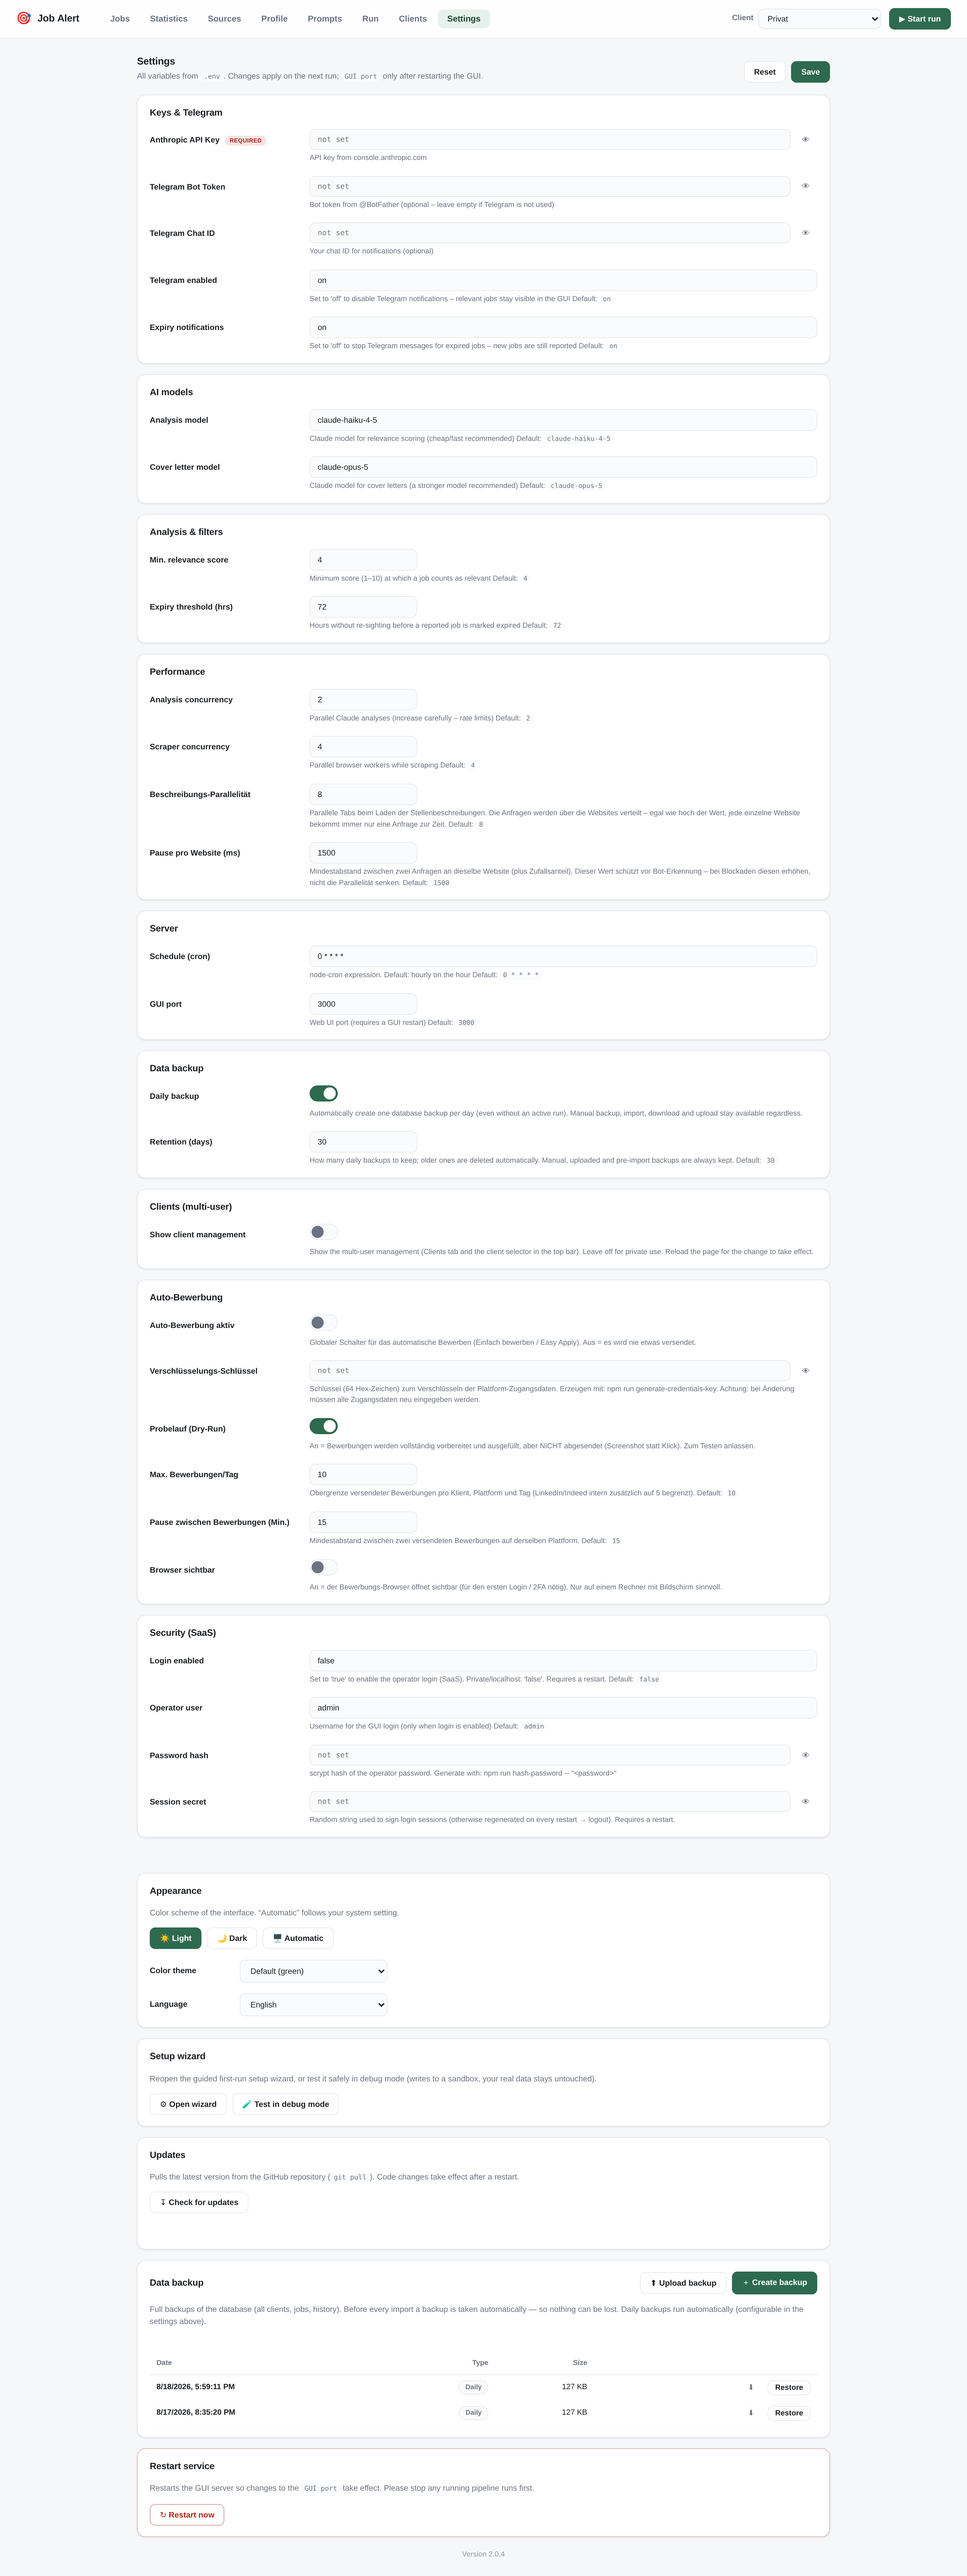
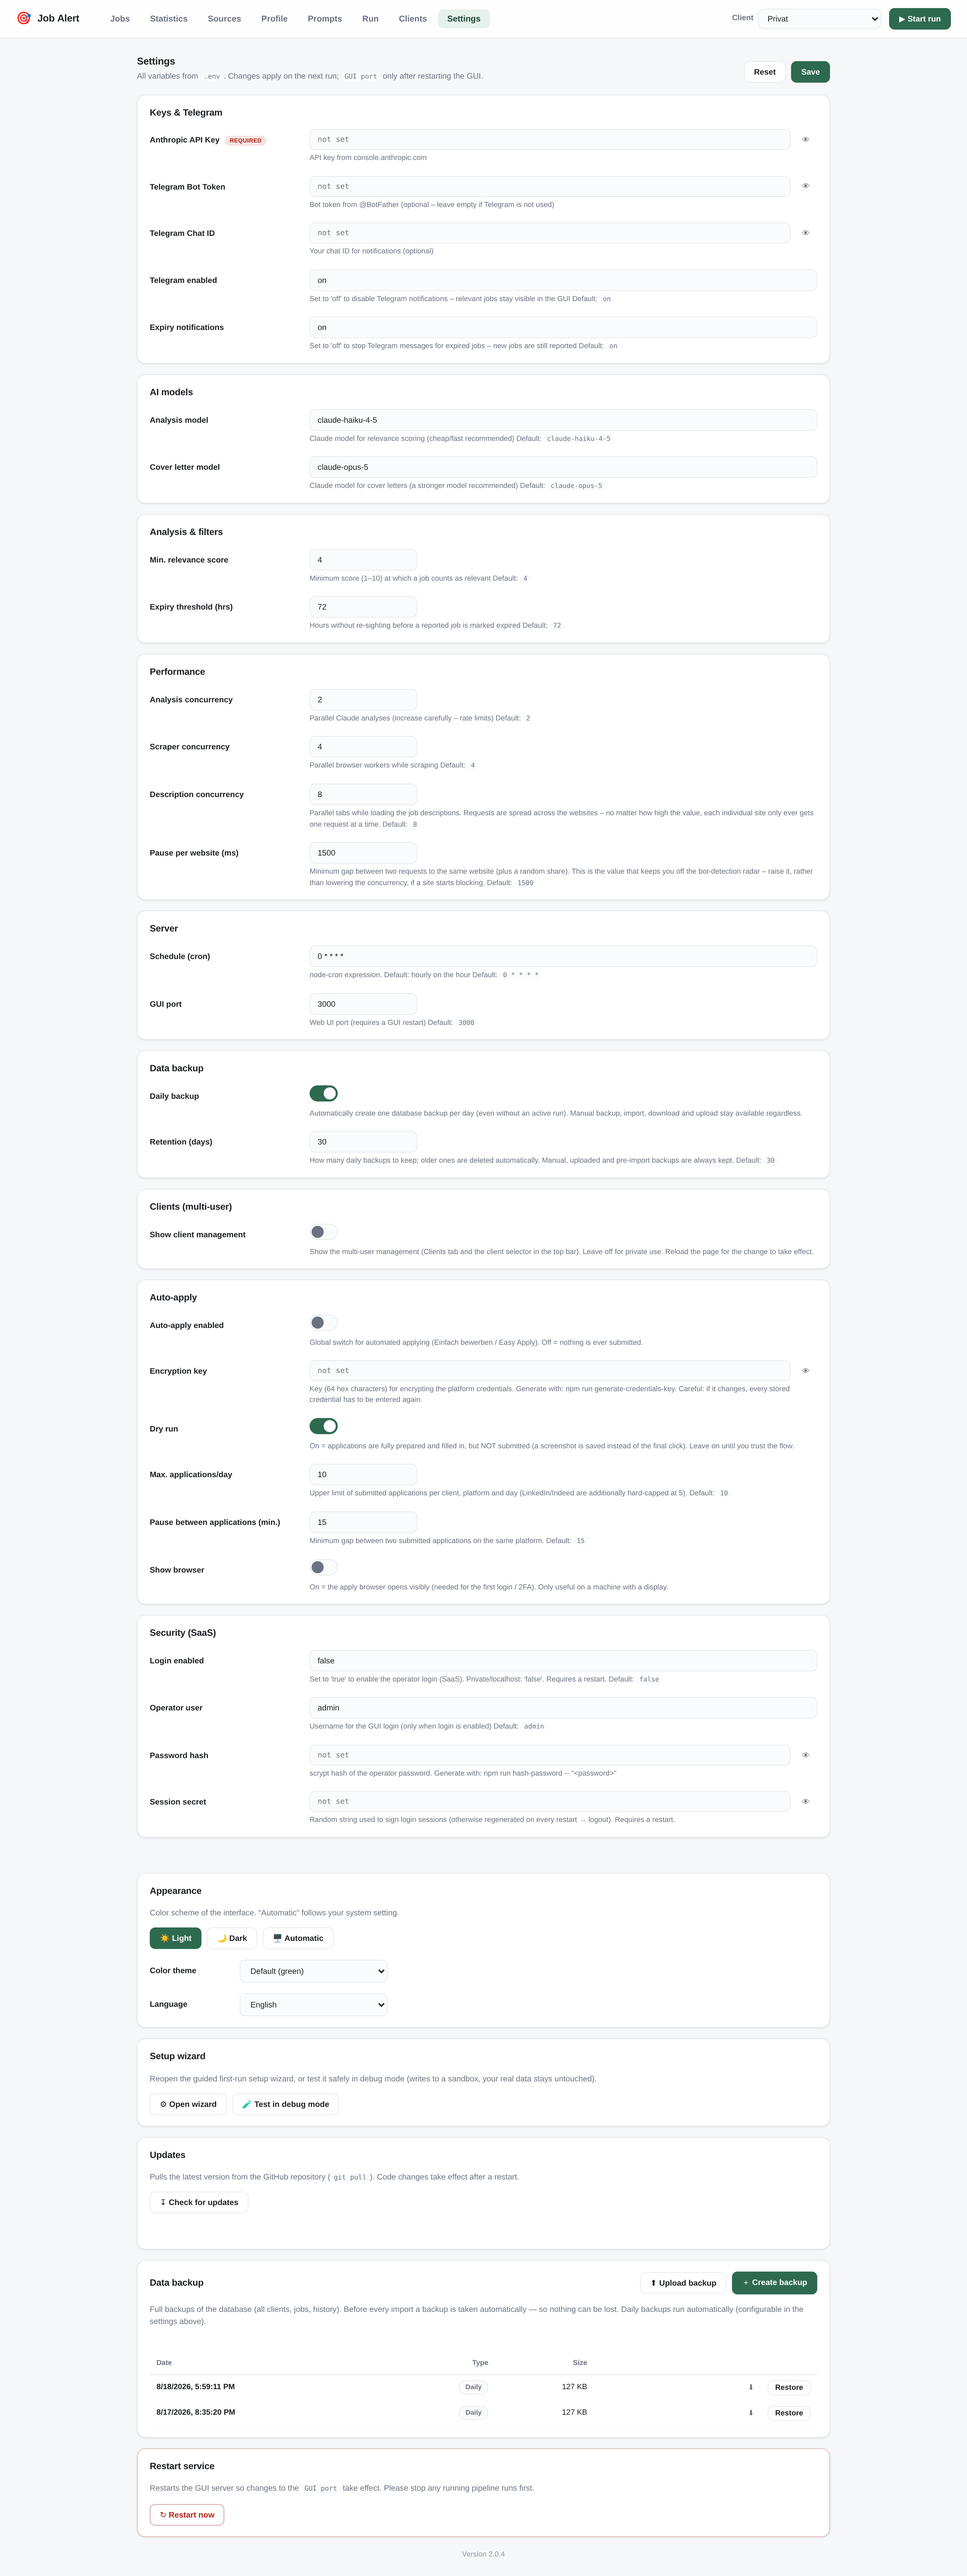
Translate the remaining settings fields into English
The Einstellungen form is server-driven: SETTINGS_SCHEMA carries German
label/help as the source of truth and public/i18n.js layers English on top,
keyed by field key. A missing override falls back to the German text without
any marker, so the auto-apply commit and the per-host-throttle commit each
added schema fields that then rendered in German on an otherwise English
page — one group heading and eight fields, labels and help alike.

Adds the missing overrides and recaptures the settings screenshot, and notes
the silent-fallback trap in CLAUDE.md so the next field does not repeat it.

Changed region(s): [[0.3438, 0.3118, 0.4688, 0.3429]]

diff --git a/public/i18n.js b/public/i18n.js
@@ -499,6 +499,7 @@ const SETTINGS_GROUPS_EN = {
   'Server': 'Server',
   'Datensicherung': 'Data backup',
   'Klienten (Mehrbenutzer)': 'Clients (multi-user)',
+  'Auto-Bewerbung': 'Auto-apply',
   'Sicherheit (SaaS)': 'Security (SaaS)',
 };
 const SETTINGS_LABELS_EN = {
@@ -513,11 +514,19 @@ const SETTINGS_LABELS_EN = {
   EXPIRY_THRESHOLD_HOURS: 'Expiry threshold (hrs)',
   ANALYSIS_CONCURRENCY: 'Analysis concurrency',
   SCRAPE_CONCURRENCY: 'Scraper concurrency',
+  DESC_CONCURRENCY: 'Description concurrency',
+  DESC_HOST_GAP_MS: 'Pause per website (ms)',
   CRON_SCHEDULE: 'Schedule (cron)',
   GUI_PORT: 'GUI port',
   BACKUP_ENABLED: 'Daily backup',
   BACKUP_RETENTION_DAYS: 'Retention (days)',
   CLIENTS_ENABLED: 'Show client management',
+  AUTO_APPLY_ENABLED: 'Auto-apply enabled',
+  CREDENTIALS_KEY: 'Encryption key',
+  APPLY_DRY_RUN: 'Dry run',
+  APPLY_DAILY_CAP: 'Max. applications/day',
+  APPLY_COOLDOWN_MINUTES: 'Pause between applications (min.)',
+  APPLY_HEADFUL: 'Show browser',
   AUTH_ENABLED: 'Login enabled',
   OPERATOR_USER: 'Operator user',
   OPERATOR_PASSWORD_HASH: 'Password hash',
@@ -535,11 +544,19 @@ const SETTINGS_HELP_EN = {
   EXPIRY_THRESHOLD_HOURS: 'Hours without re-sighting before a reported job is marked expired',
   ANALYSIS_CONCURRENCY: 'Parallel Claude analyses (increase carefully – rate limits)',
   SCRAPE_CONCURRENCY: 'Parallel browser workers while scraping',
+  DESC_CONCURRENCY: 'Parallel tabs while loading the job descriptions. Requests are spread across the websites – no matter how high the value, each individual site only ever gets one request at a time.',
+  DESC_HOST_GAP_MS: 'Minimum gap between two requests to the same website (plus a random share). This is the value that keeps you off the bot-detection radar – raise it, rather than lowering the concurrency, if a site starts blocking.',
   CRON_SCHEDULE: 'node-cron expression. Default: hourly on the hour',
   GUI_PORT: 'Web UI port (requires a GUI restart)',
   BACKUP_ENABLED: 'Automatically create one database backup per day (even without an active run). Manual backup, import, download and upload stay available regardless.',
   BACKUP_RETENTION_DAYS: 'How many daily backups to keep; older ones are deleted automatically. Manual, uploaded and pre-import backups are always kept.',
   CLIENTS_ENABLED: 'Show the multi-user management (Clients tab and the client selector in the top bar). Leave off for private use. Reload the page for the change to take effect.',
+  AUTO_APPLY_ENABLED: 'Global switch for automated applying (Einfach bewerben / Easy Apply). Off = nothing is ever submitted.',
+  CREDENTIALS_KEY: 'Key (64 hex characters) for encrypting the platform credentials. Generate with: npm run generate-credentials-key. Careful: if it changes, every stored credential has to be entered again.',
+  APPLY_DRY_RUN: 'On = applications are fully prepared and filled in, but NOT submitted (a screenshot is saved instead of the final click). Leave on until you trust the flow.',
+  APPLY_DAILY_CAP: 'Upper limit of submitted applications per client, platform and day (LinkedIn/Indeed are additionally hard-capped at 5).',
+  APPLY_COOLDOWN_MINUTES: 'Minimum gap between two submitted applications on the same platform.',
+  APPLY_HEADFUL: 'On = the apply browser opens visibly (needed for the first login / 2FA). Only useful on a machine with a display.',
   AUTH_ENABLED: "Set to 'true' to enable the operator login (SaaS). Private/localhost: 'false'. Requires a restart.",
   OPERATOR_USER: 'Username for the GUI login (only when login is enabled)',
   OPERATOR_PASSWORD_HASH: 'scrypt hash of the operator password. Generate with: npm run hash-password -- "<password>"',

diff --git a/CLAUDE.md b/CLAUDE.md
@@ -123,7 +123,22 @@ web GUI. Multi-tenant: every job, run and setting is scoped by `client_id`.
 - **A new env var lives in three places**: `.env.example`, `SETTINGS_SCHEMA` in
   `src/server.js` (otherwise it never shows up in Einstellungen), and the setup
   wizard `STEPS` in `src/setup.js` if a new user must set it. Advanced knobs may
-  skip the settings form on purpose — then say so in `.env.example`.
+  skip the settings form on purpose — then say so in `.env.example`. If it reaches
+  a form, it also needs its English override (next bullet).
+- **Ask on every change: does `public/i18n.js` need an edit?** Two different
+  mechanisms, and only one of them fails loudly:
+  - *Static markup* uses `data-i18n` keys. Add **both** a `de` and an `en` entry
+    to `I18N`. A missing key renders as the raw key — you will see it.
+  - *Server-driven forms* — `SETTINGS_SCHEMA` (`src/server.js`), `PROMPT_FIELDS`
+    (`src/prompts.js`), wizard `STEPS` (`src/setup.js`) — carry **German**
+    `label`/`help` as their source of truth. English comes from the override maps
+    at the bottom of `i18n.js`: `SETTINGS_GROUPS_EN` / `SETTINGS_LABELS_EN` /
+    `SETTINGS_HELP_EN`, `PROMPTS_*_EN`, `WIZARD_*_EN`, keyed by field key (group
+    maps by the German heading). A missing override **falls back to German
+    silently** — the English GUI just shows a German label and nothing complains.
+    That is how eight settings and a whole group heading shipped untranslated.
+    Add the override in the same commit as the field, and remember a new group
+    heading needs its own entry.
 - **Bump `SETUP_VERSION`** (`src/setup.js`) when adding a wizard step that
   existing users should be re-prompted for.
 - **Log lines are colorized by regex** in `colorizeLog` (`public/app.js`):
